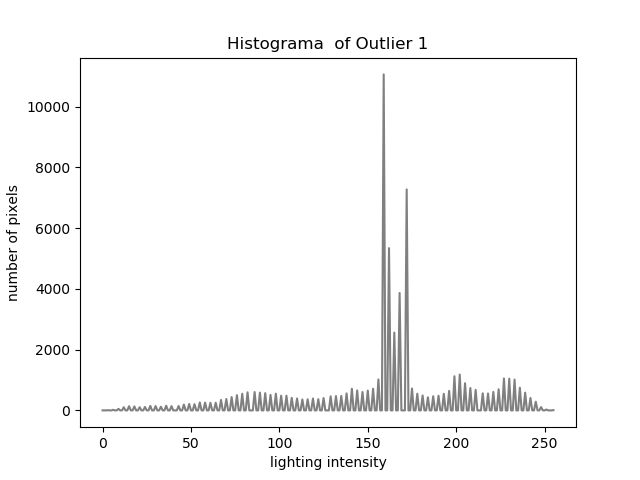
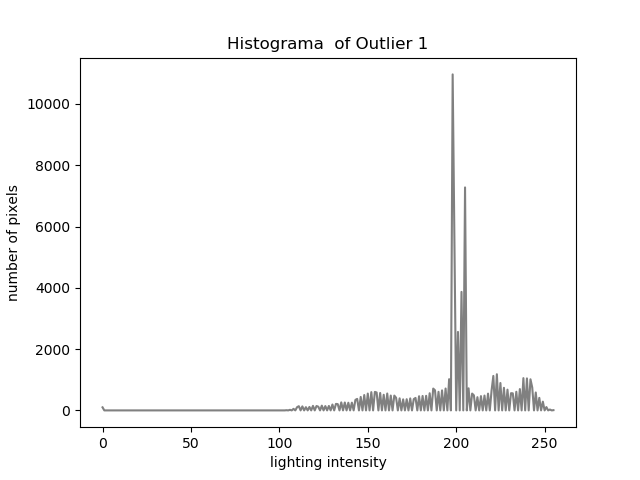
feat: ajustando parametros

diff --git a/Practica 2/ejercicio3.py b/Practica 2/ejercicio3.py
@@ -7,7 +7,7 @@ from matplotlib import pyplot as plt
 # loading image
 cantidad = int(sys.argv[1])
 
-img = cv.imread('contr2.jpg', cv.IMREAD_GRAYSCALE)
+img = cv.imread('resultado2.png', cv.IMREAD_GRAYSCALE)
 cv.imshow('Original Imagen', img)
 
 if img.size == 0:
